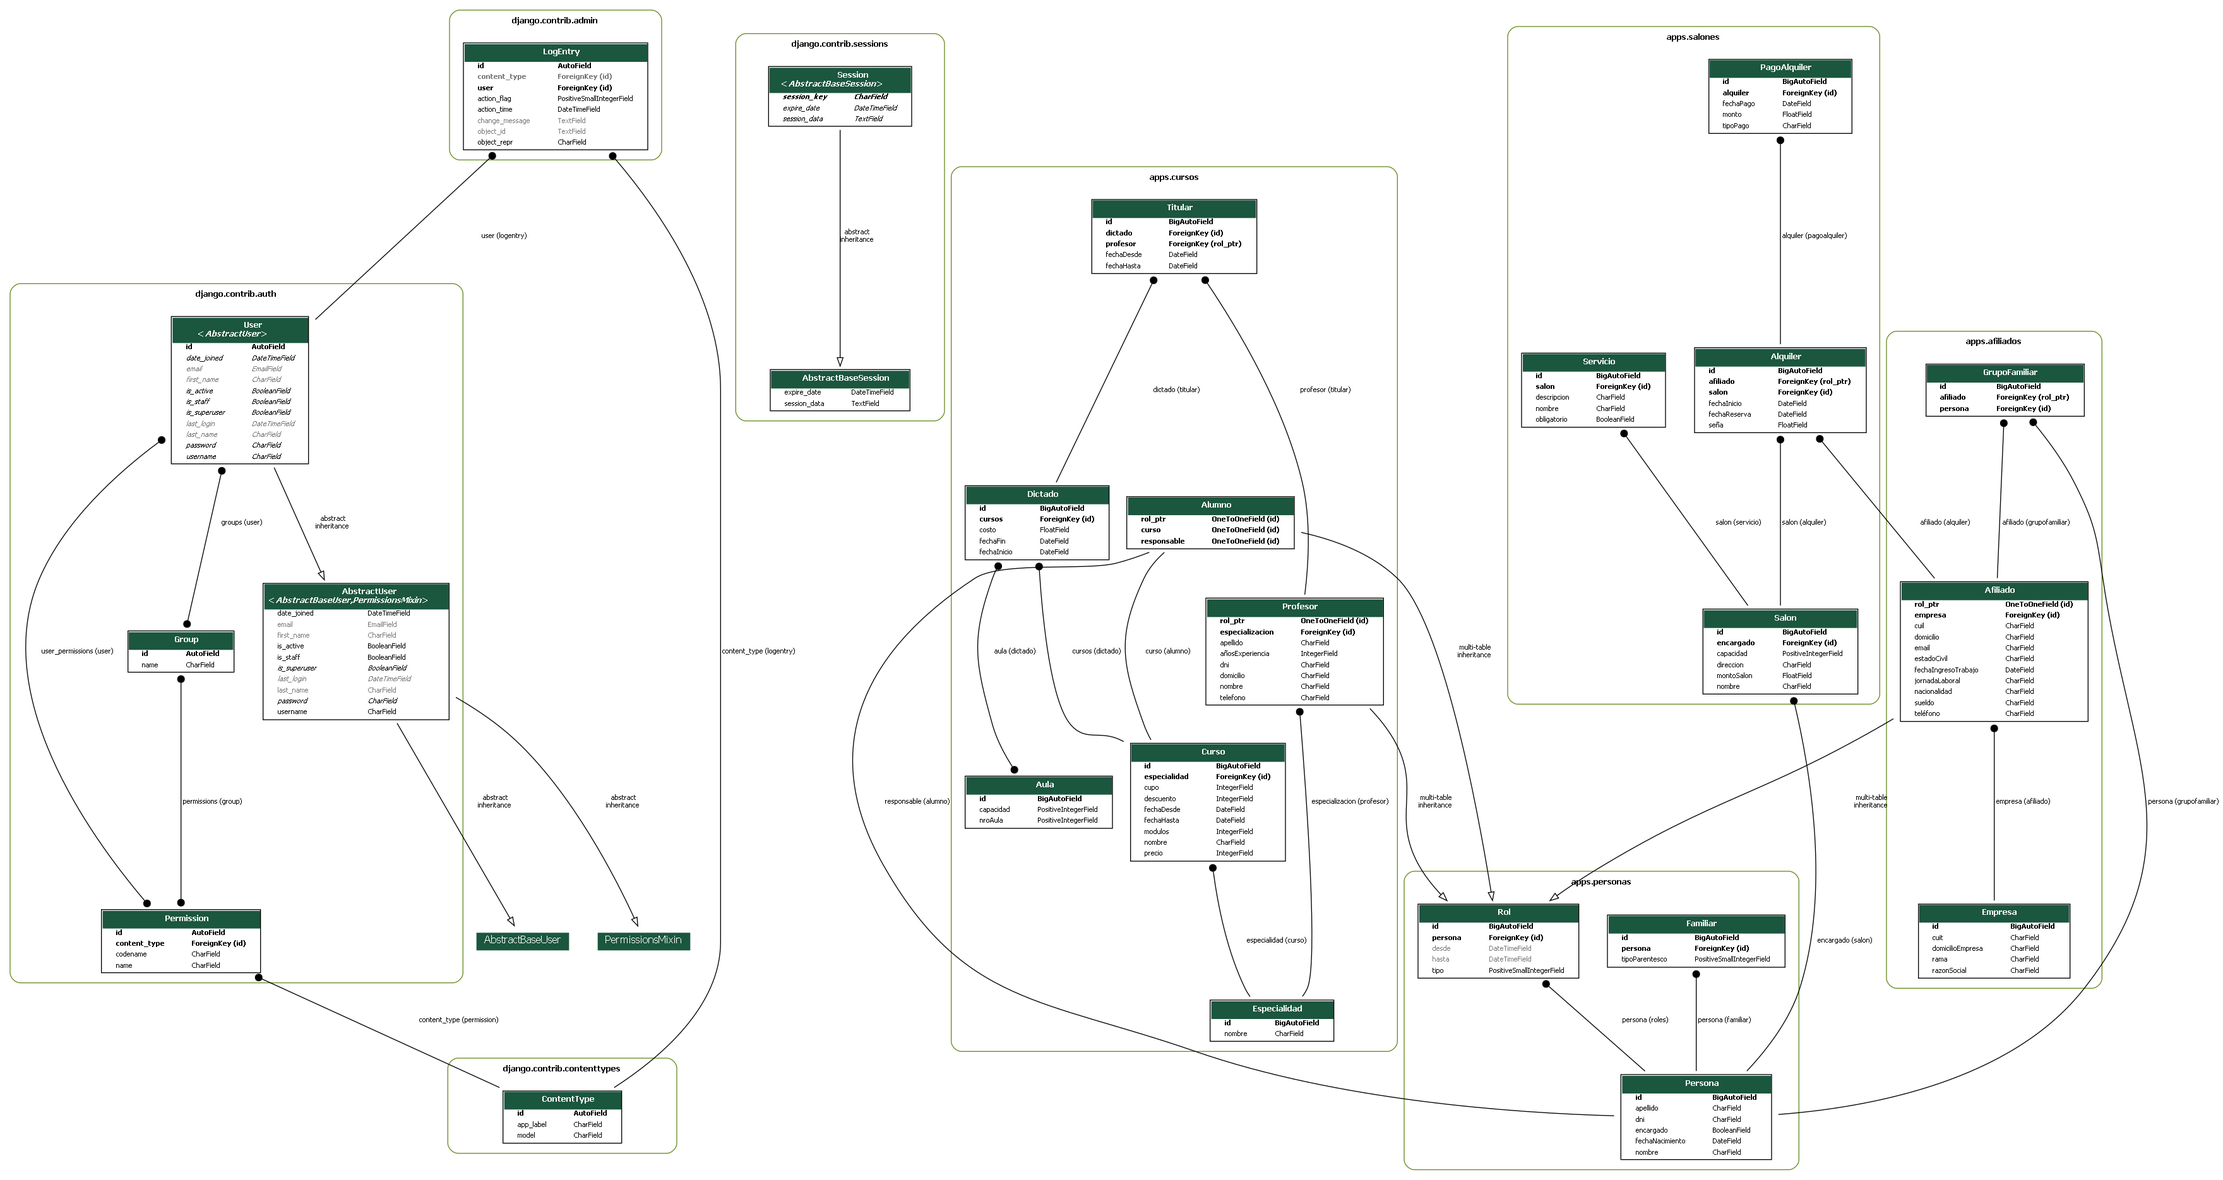
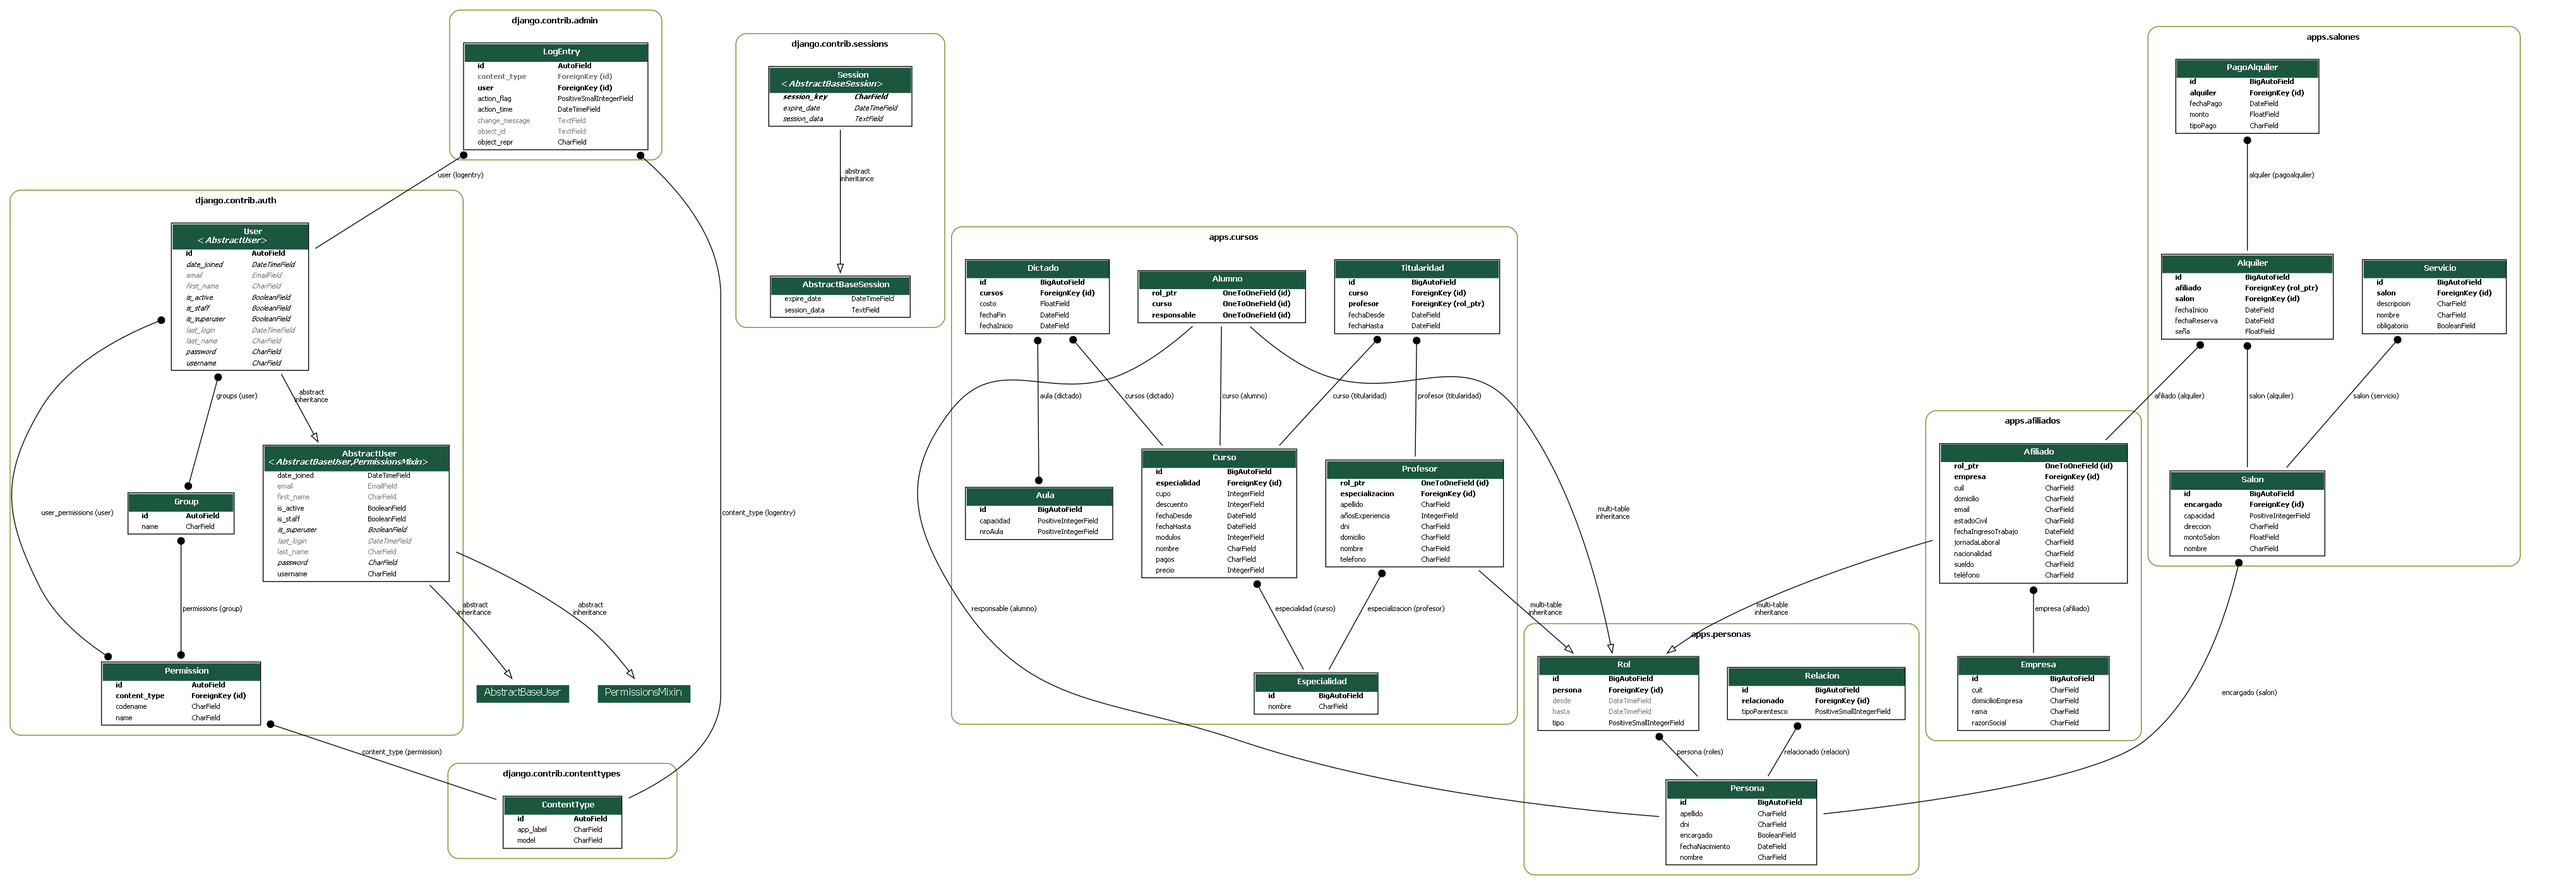
Actualizacion models Persona y Curso

diff --git a/sources/sec/apps/cursos/models.py b/sources/sec/apps/cursos/models.py
@@ -17,22 +17,6 @@ class Aula(models.Model):
     def __str__ (self): 
         return f'id={self.id}, nroAula={self.nroAula}, capacidad={self.capacidad}'
 
-class Curso(models.Model):
-    nombre = models.CharField(max_length = 10)
-    fechaDesde = models.DateField()
-    fechaHasta = models.DateField()
-    cupo = models.IntegerField(max_length = 2)
-    modulos = models.IntegerField( max_length = 2)
-    descuento = models.IntegerField(max_length = 2)
-    precio = models.IntegerField(max_length = 4)
-    pagos = models.CharField(max_length = 20)
-    especialidad = models.ForeignKey(Especialidad, on_delete = models.CASCADE)
-
-    def __str__(self):
-        return f'fechaDesde={self.fechaDesde}, fechaHasta={self.fechaHasta}, cupo={self.cupo}, modulos={self.modulos}, descuento={self.descuento}, precio={self.precio}'
-
-
-
 class Profesor(Rol):
     TIPO = 2
     dni = models.CharField(max_length=8)
@@ -47,6 +31,25 @@ class Profesor(Rol):
     def __str__(self):
         return f'id={self.id}, dni={self.dni}, nombre={self.nombre}, apellido={self.apellido}, domicilio={self.domicilio}, telefono={self.telefono}, especializacion={self.especializacion}, añosExperiencia={self.añosExperiencia}, cbu={self.cbu}'
 
+
+class Curso(models.Model):
+    nombre = models.CharField(max_length = 10)
+    fechaDesde = models.DateField()
+    fechaHasta = models.DateField()
+    cupo = models.IntegerField(max_length = 2)
+    modulos = models.IntegerField( max_length = 2)
+    profesores = models.ManyToManyField(Profesor, through = 'Titularidad') 
+    descuento = models.IntegerField(max_length = 2)
+    precio = models.IntegerField(max_length = 4)
+    pagos = models.CharField(max_length = 20)
+    especialidad = models.ForeignKey(Especialidad, on_delete = models.CASCADE)
+
+    def __str__(self):
+        return f'fechaDesde={self.fechaDesde}, fechaHasta={self.fechaHasta}, cupo={self.cupo}, modulos={self.modulos}, descuento={self.descuento}, precio={self.precio}'
+
+
+
+
 class Alumno (Rol): 
     TIPO = 3
     curso= models.OneToOneField(Curso, on_delete = models.CASCADE, parent_link = True)
@@ -57,7 +60,6 @@ class Alumno (Rol):
 class Dictado(models.Model): 
     aula = models.ManyToManyField(Aula)
     cursos = models.ForeignKey(Curso, on_delete = models.CASCADE)
-    profesores = models.ManyToManyField(Profesor, through = 'Titular') 
     costo = models.FloatField(max_length=10)
     fechaInicio = models.DateField()
     fechaFin = models.DateField() 

diff --git a/sources/sec/apps/afiliados/models.py b/sources/sec/apps/afiliados/models.py
@@ -25,11 +25,8 @@ class Afiliado(Rol):
     fechaIngresoTrabajo = models.DateField()
     sueldo = models.CharField(max_length=50)
     jornadaLaboral = models.CharField(max_length=50) 
-    #empresa = models.ForeignKey(Empresa, on_delete = models.CASCADE)
-    cuitEmpresa = models.CharField(max_length=50)
-    razonSocial = models.CharField(max_length=50)
-    ramaEmpresa = models.CharField(max_length=50)
-    domicilioEmpresa = models.CharField(max_length=50)
+    empresa = models.ForeignKey(Empresa, on_delete = models.CASCADE)
+
 
     
 

diff --git a/sources/sec/apps/personas/models.py b/sources/sec/apps/personas/models.py
@@ -18,7 +18,7 @@ class Persona(models.Model):
 class Relacion (models.Model): 
     TIPO = [] 
     tipoParentesco = models.PositiveSmallIntegerField(choices = TIPO)
-    persona = models.ForeignKey(Persona, on_delete = models.CASCADE) 
+    #persona = models.ForeignKey(Persona, on_delete = models.CASCADE) 
     relacionado = models.ForeignKey(Persona, on_delete = models.CASCADE) 
 
 
